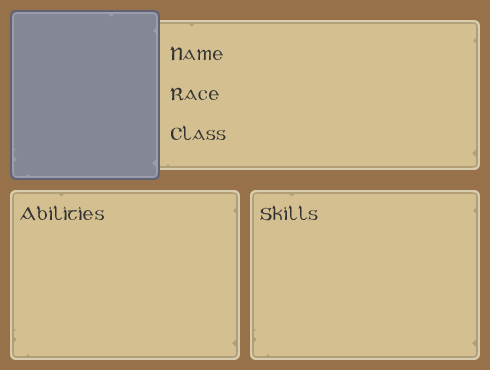
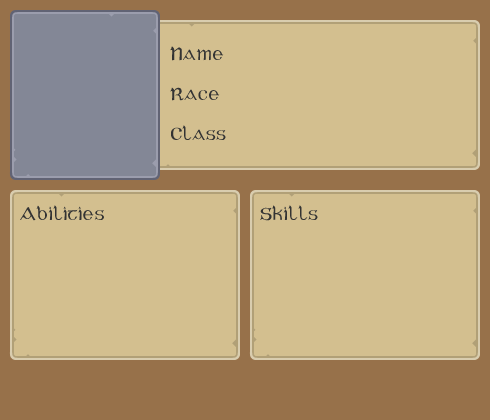
Create buttons

diff --git a/settings.py b/settings.py
@@ -12,4 +12,4 @@ TEXT_COLOR = (51, 51, 51)
 
 RESOURCES_ROOT = 'resources'
 
-WINDOW_SIZE = (490, 370)
+WINDOW_SIZE = (490, 420)

diff --git a/README.md b/README.md
@@ -38,11 +38,6 @@ Clone this repo, and then the usual `pip install -r requirements.txt`.
 python run.py
 ```
 
-### Controls
-
-  - <kbd>ESC</kbd> closes the application
-  - Your mouse
-
 ### How it works
 
 I obviously can't explain how it works here, so you'll have to jump yourself in the source code. Start with the entry
